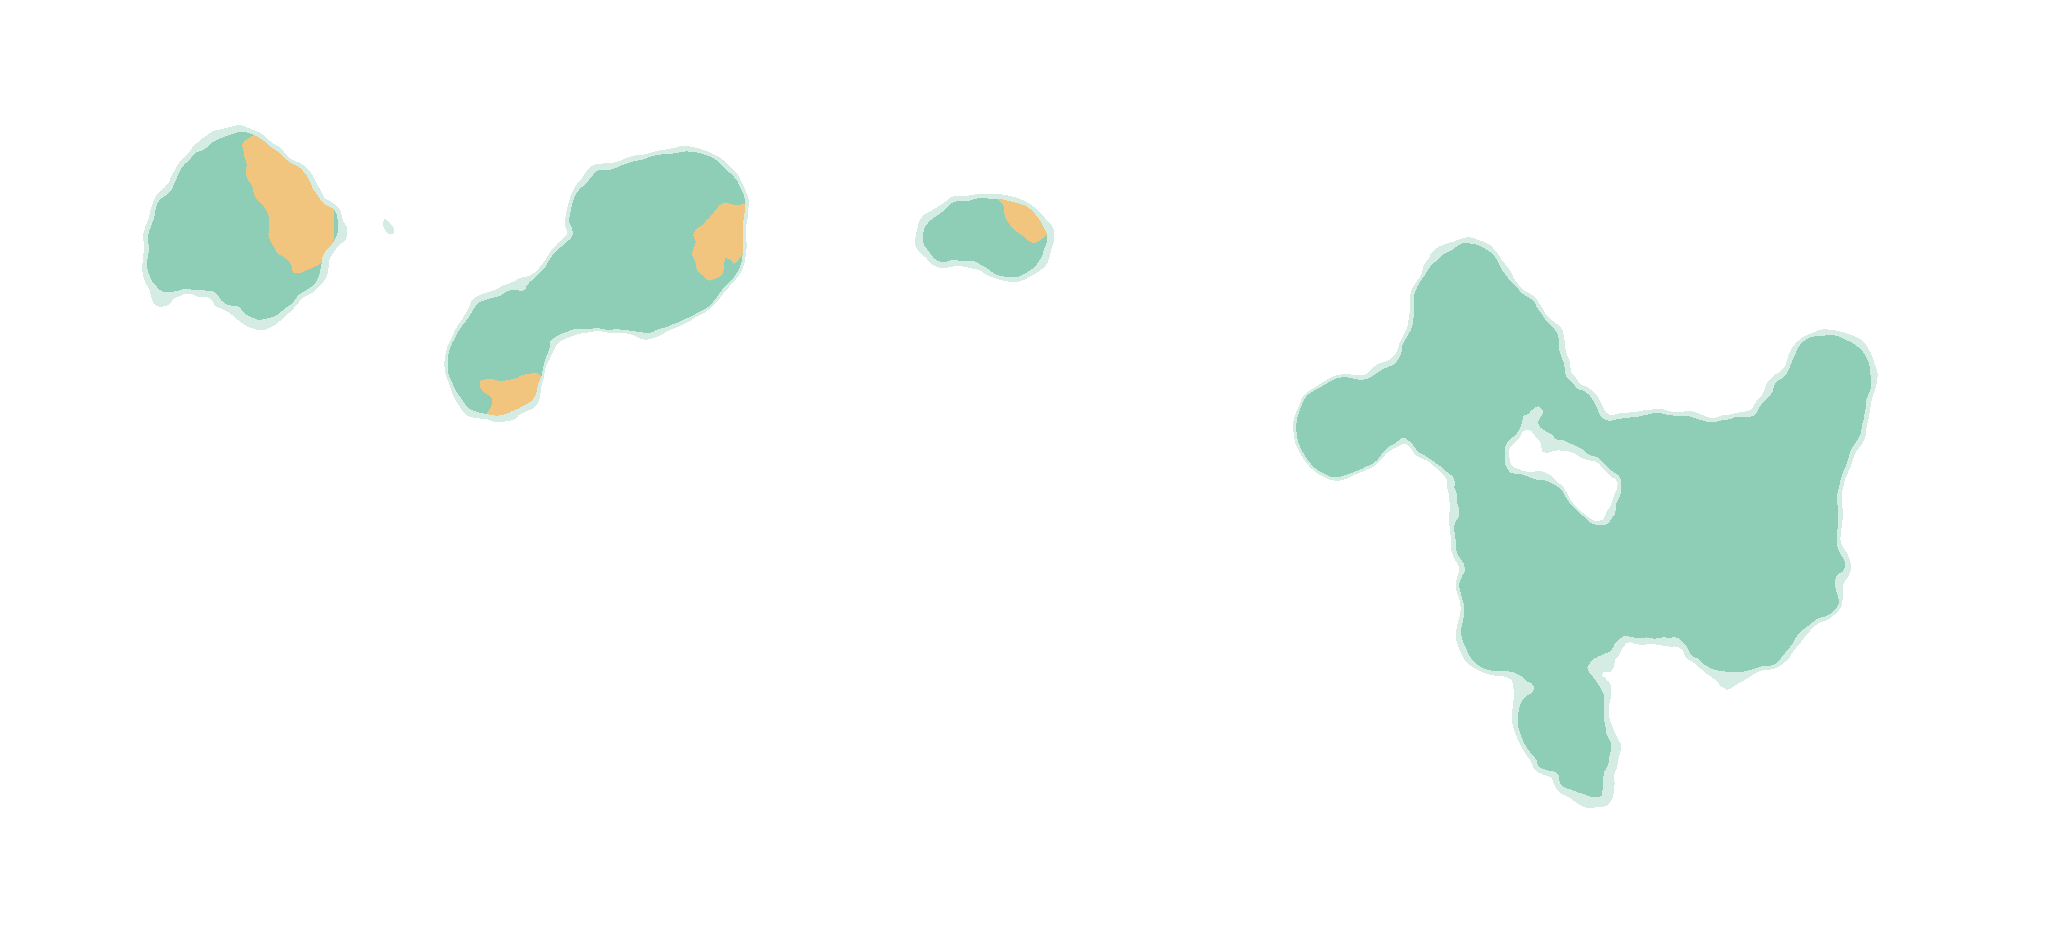
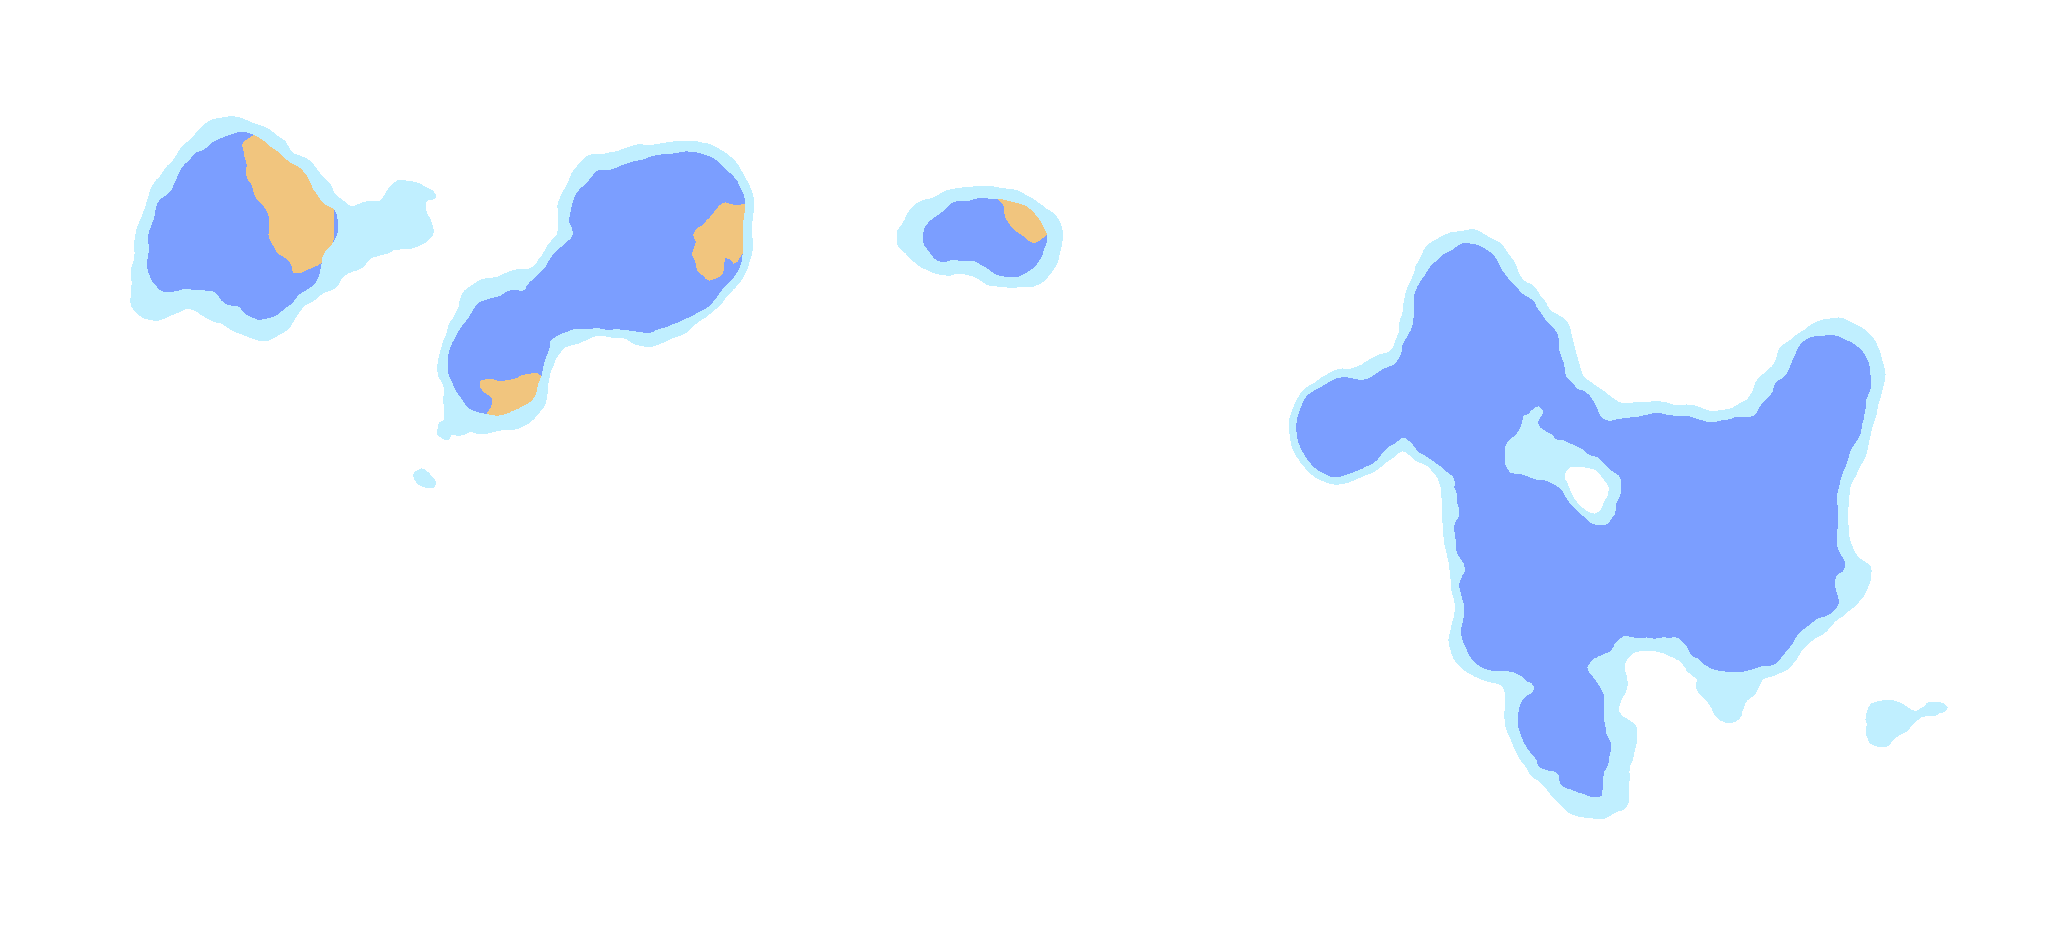
RFP zones: blue for satellite readability; near band 30-40K
Claude-Session: https://claude.ai/code/session_01FWjMErH2jpYV6ZqCUAhNVw

diff --git a/grocery-scan/index.html b/grocery-scan/index.html
@@ -79,7 +79,7 @@ button.chip:focus-visible,.item:focus-visible{outline:2px solid var(--gold);outl
       </div>
       <div class="ctrl" role="group" aria-label="Demographics">
         <span class="lbl">Demographics</span>
-        <button class="chip" id="t-drfp" data-k="drfp" aria-pressed="false"><span class="dot" style="background:#10966A"></span>RFP zones</button>
+        <button class="chip" id="t-drfp" data-k="drfp" aria-pressed="false"><span class="dot" style="background:#1E5AFF"></span>RFP zones</button>
         <button class="chip" id="t-dpop" data-k="dpop" aria-pressed="false"><span class="dot" style="background:#D76028"></span>3-mi population</button>
         <button class="chip" id="t-dinc" data-k="dinc" aria-pressed="false"><span class="dot" style="background:#0571B0"></span>Household income</button>
       </div>
@@ -680,7 +680,7 @@ function toggle(k,force){const b=document.getElementById('t-'+k);const on=force!
   b.setAttribute('aria-pressed',on);setVis(k,on);if(DEMO_KEYS.includes(k)){demoLegend();if(on)loadBG();}}
 const DEMO_KEYS=['drfp','dpop','dinc'];
 const DEMO_B={"N": 36.3, "S": 35.452173913043524, "W": -80.55, "E": -78.2522140985158};
-const DLEG={drfp:'<p><strong>RFP zones</strong> – where a 3-mile ring around that spot holds the RFP minimums.</p><p><span style="color:#10966A">■</span> 40K+ people and $50K+ median household income &nbsp;<span style="color:#E6961A">■</span> 40K+ people but income under $50K &nbsp;<span style="color:#10966A;opacity:.45">■</span> 36–40K (within 10%)</p>',
+const DLEG={drfp:'<p><strong>RFP zones</strong> – where a 3-mile ring around that spot holds the RFP minimums.</p><p><span style="color:#1E5AFF">■</span> 40K+ people and $50K+ median household income &nbsp;<span style="color:#E6961A">■</span> 40K+ people but income under $50K &nbsp;<span style="color:#8CE1FF">■</span> 30–40K people (close)</p>',
  dpop:'<p><strong>3-mile ring population</strong> centred on each spot. Dark line = the 40K line.</p><p><span style="color:#FDE08B">■</span> 30–40K <span style="color:#F4A552">■</span> 40–60K <span style="color:#D76028">■</span> 60–80K <span style="color:#962814">■</span> 80K+</p>',
  dinc:'<p><strong>Median household income</strong> by Census block group.</p><p><span style="color:#CA0020">■</span> under $40K <span style="color:#F4A582">■</span> $40–50K <span style="color:#D1E5F0">■</span> $50–75K <span style="color:#67A9CF">■</span> $75–100K <span style="color:#0571B0">■</span> $100K+</p>'};
 function demoLegend(){const k=DEMO_KEYS.find(x=>shown[x]);const el=document.getElementById('dlegend');if(!k){el.hidden=true;return;}el.hidden=false;
